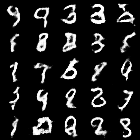
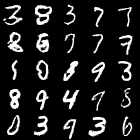
update images

diff --git a/ImageWriterCallback.py b/ImageWriterCallback.py
@@ -35,7 +35,7 @@ class ImageWriterCallback(tf.keras.callbacks.Callback):
         # plt.imshow(generated_images,cmap='gray',vmin=-1,vmax=1)
         # plt.show()
         self.gif_images.append(((generated_images+1)*127.5).astype('uint8'))
-        cv2.imwrite(os.path.join(self.log_dir,'generated_images.png'),self.gif_images[-1])
+        cv2.imwrite(os.path.join(self.log_dir, 'images/generated_images.png'), self.gif_images[-1])
 
         with self.tensorboard_writer.as_default():
             tf.summary.image('generated images',generated_images.reshape((-1,self.amount_of_rows_cols*height,self.amount_of_rows_cols*width,1)),max_outputs=1,step=epoch)

diff --git a/train_dcgan.py b/train_dcgan.py
@@ -29,6 +29,6 @@ os.makedirs(log_dir+'/images')
 
 tensorboard_callback=tf.keras.callbacks.TensorBoard(log_dir)
 image_writer_callback=ImageWriterCallback(log_dir+'/images')
-dcgan.fit(generator,epochs=10,callbacks=[tensorboard_callback,image_writer_callback])
+dcgan.fit(generator,epochs=50,callbacks=[tensorboard_callback,image_writer_callback])
 
 

diff --git a/DCGAN.py b/DCGAN.py
@@ -103,6 +103,8 @@ class DCGAN(tf.keras.Model):
         super(DCGAN, self).compile()
         pass
 
+    def call(self, noise):
+        pass
 
     def generate_images(self, noise):
         return self.generator(noise)

diff --git a/Readme.md b/Readme.md
@@ -1,13 +1,15 @@
 # Deep Convolutional GAN for the MNIST Dataset
 
-This repository shows the results of a simple DCGAN for the MNIST dataset. The code and the supporting explanation is in the Notebook file.
+This repository shows the results of a simple DCGAN for the MNIST dataset. The training can be started via the train_dcgan.py file.
 
 Generated images from DCGAN:
 
 ![](images/generated_images.png)
 
+
 Generated images from DCGAN during training:
 
 ![](images/train.gif)
+
 
 
